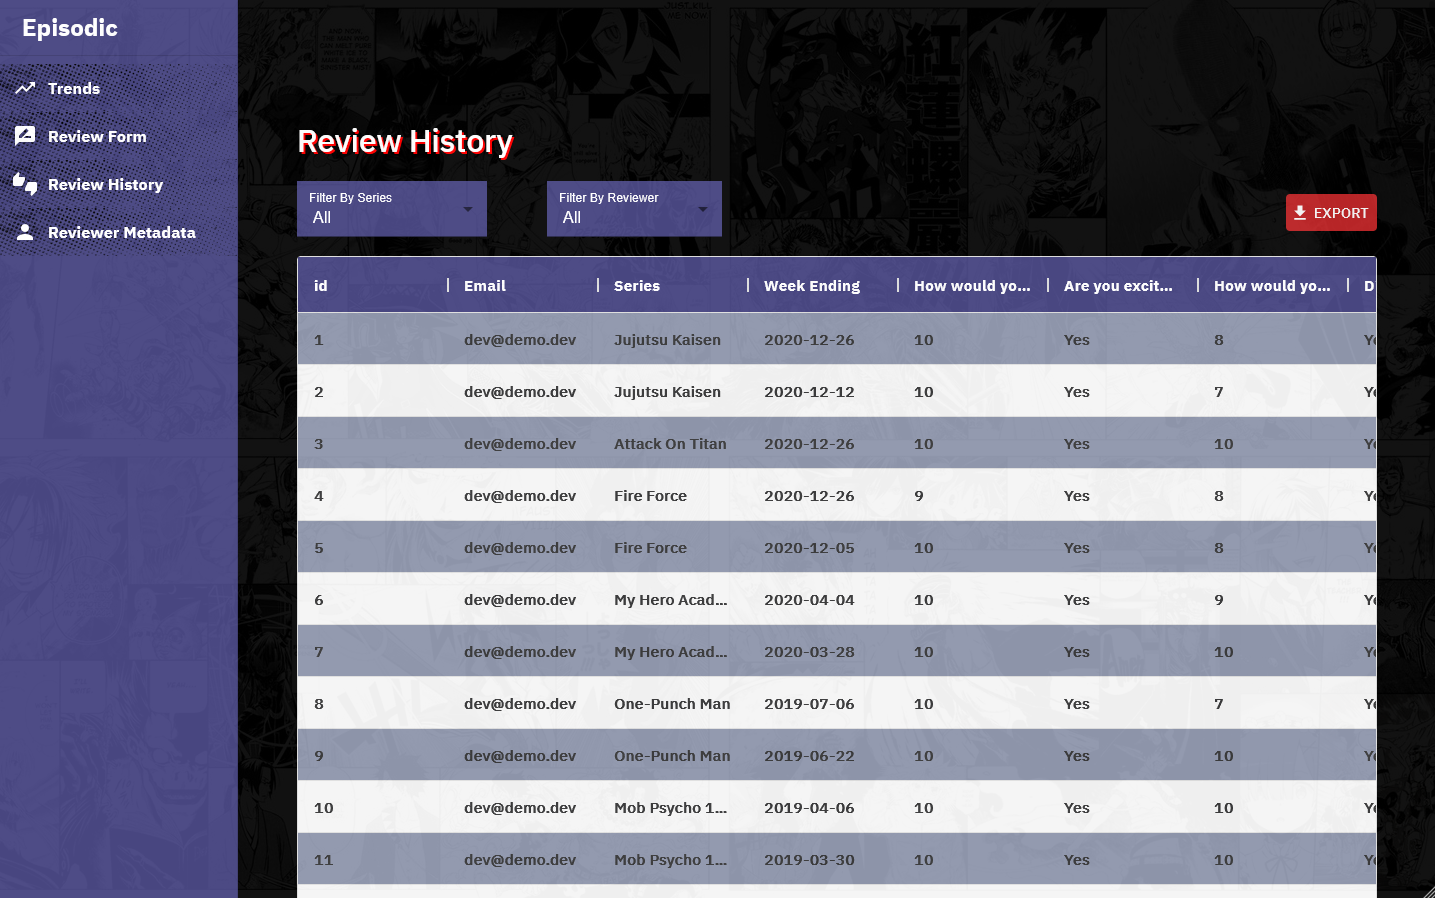
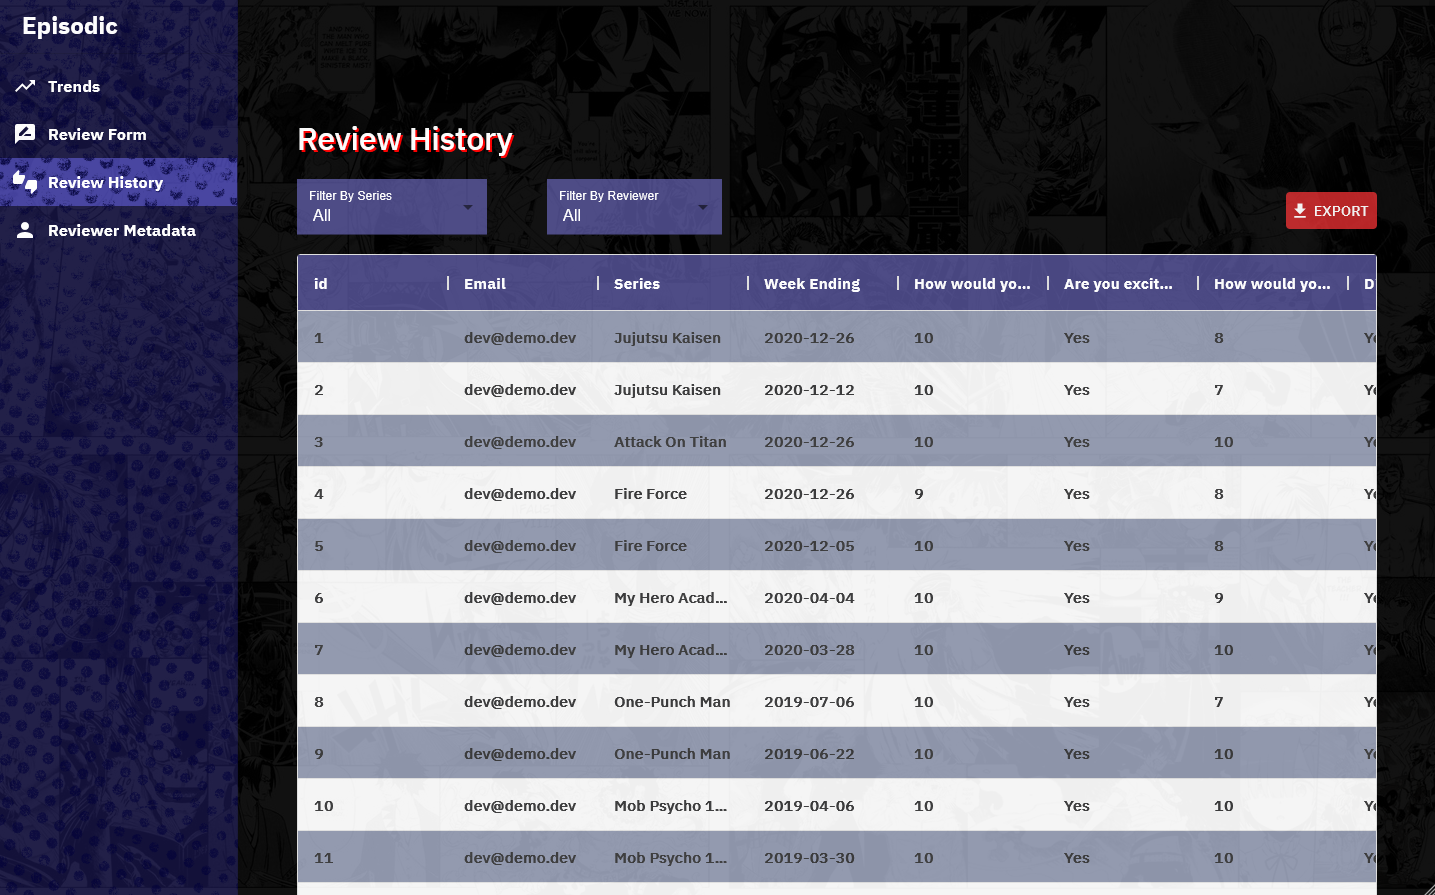
updated design and images

diff --git a/README.md b/README.md
@@ -29,7 +29,7 @@ Episodic currently has four views / web pages: "Trends", "Review Form", "Review 
 Users can view a dashboard for each series.
 <img src="presentation/2.PNG" width="900">
 
-# After selecting series One Piece
+# After selecting series My Hero Academia
 <img src="presentation/3.PNG" width="900">
 
 # Review Form page #1
@@ -77,8 +77,9 @@ User can view and download all review submissions here.
 # Reviewer Metadata page #3
 <img src="presentation/17.PNG" width="900">
 
-# After successful submission
+# After successful submission (old design)
 <img src="presentation/18.PNG" width="900">
 
 # Data displayed on Reviewer Metadata page corresponds with database
+This gif was captured with the application's old design, but the functionality remains the same.
 <img src="presentation/1.gif" width="900">
